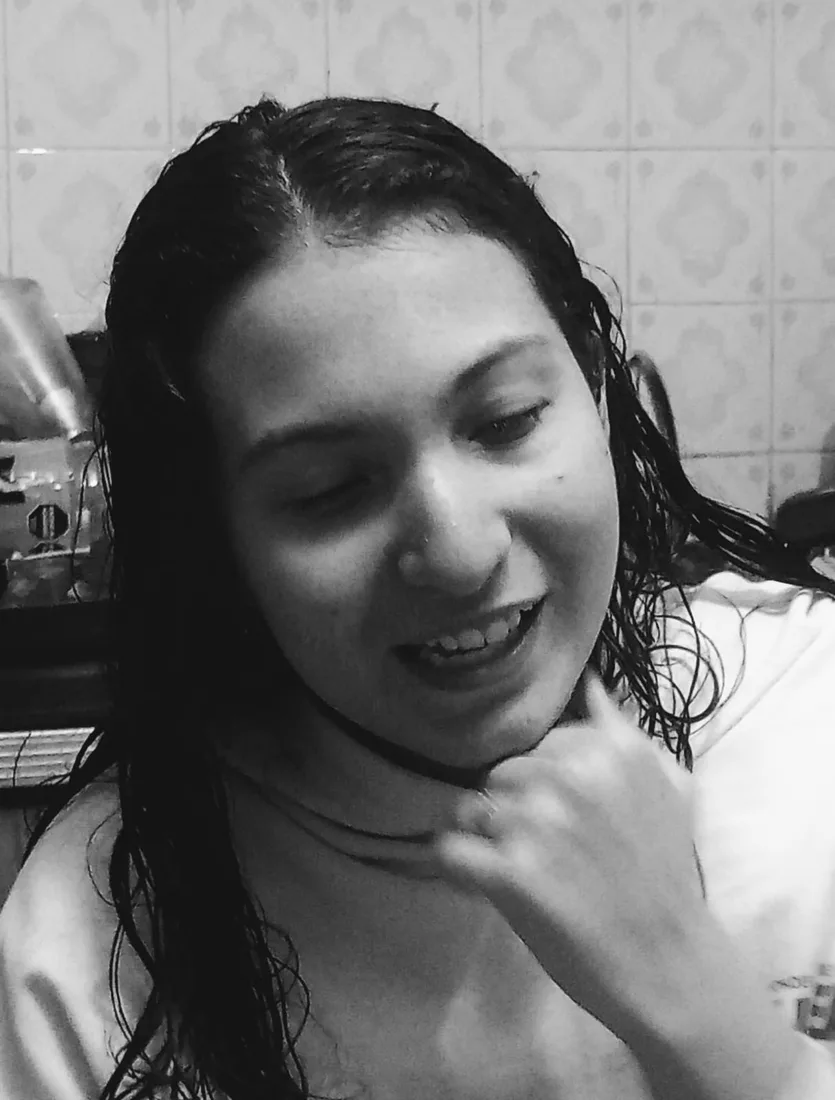
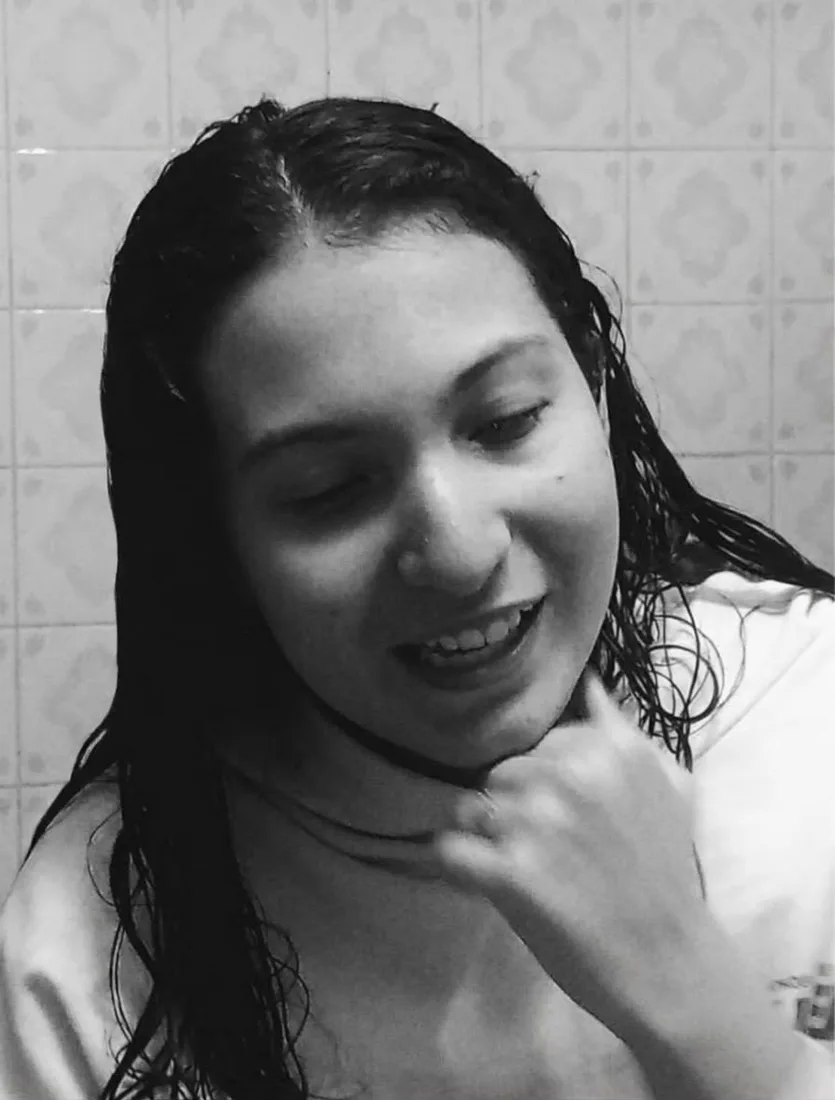
Galería: nueva foto en blanco y negro

diff --git a/index.html b/index.html
@@ -136,7 +136,7 @@
           <figure class="gallery__slide"><img src="assets/galeria-08.webp" alt="Lucía sentada en la arena al atardecer" width="823" height="1100" loading="lazy" /></figure>
           <figure class="gallery__slide"><img src="assets/galeria-09.webp" alt="Lucía sentada junto al río" width="900" height="975" loading="lazy" style="object-position: 46% 50%" /></figure>
           <figure class="gallery__slide"><img src="assets/galeria-10.webp" alt="Lucía en la costanera" width="789" height="1100" loading="lazy" style="object-position: 62% 30%" /></figure>
-          <figure class="gallery__slide"><img src="assets/galeria-11.webp" alt="Lucía sonriendo, en blanco y negro" width="835" height="1100" loading="lazy" /></figure>
+          <figure class="gallery__slide"><img src="assets/galeria-11.webp?v=2" alt="Lucía sonriendo, en blanco y negro" width="835" height="1100" loading="lazy" /></figure>
           <figure class="gallery__slide"><img src="assets/galeria-12.webp" alt="Lucía mirando el celular" width="900" height="1081" loading="lazy" /></figure>
         </div>
         <div class="gallery__dots" id="galleryDots" aria-hidden="true"></div>
